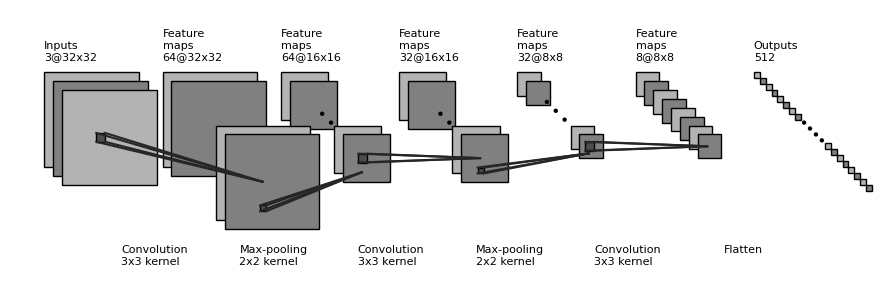
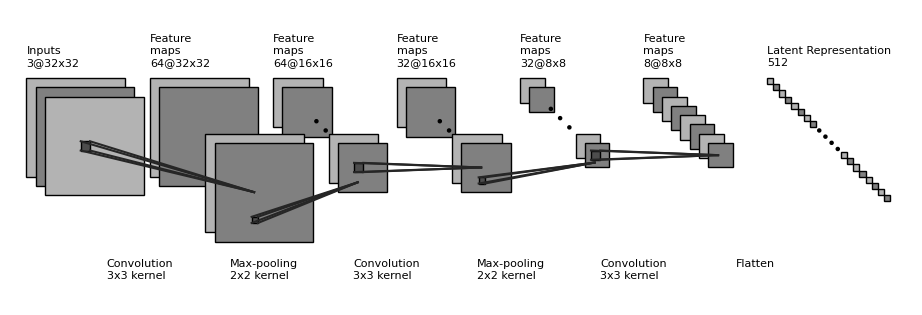
draw encoder

diff --git a/inactive notebooks/draw_convnet_fmnist_ae_encoder.py b/inactive notebooks/draw_convnet_fmnist_ae_encoder.py
@@ -155,9 +155,9 @@ if __name__ == '__main__':
 
     ############################
     # conv layers
-    size_list = [(32, 32), (32, 32), (16, 16), (16, 16), (8, 8), (8, 8)] # change here
-    num_list = [3, 64, 64, 32, 32, 8] # change here
-    x_diff_list = [0, layer_width, layer_width, layer_width, layer_width, layer_width] # change here
+    size_list = [(28, 28), (28, 28), (14, 14), (14, 14), (7, 7), (7, 7), (7, 7)] # change here
+    num_list = [1, 32, 32, 16, 16, 8, 4] # change here
+    x_diff_list = [0, layer_width, layer_width, layer_width, layer_width, layer_width, layer_width] # change here
     text_list = ['Inputs'] + ['Feature\nmaps'] * (len(size_list) - 1)
     loc_diff_list = [[3, -3]] * len(size_list)
 
@@ -181,11 +181,11 @@ if __name__ == '__main__':
 
     ############################
     # in between layers
-    start_ratio_list = [[0.4, 0.5], [0.4, 0.8], [0.4, 0.5], [0.4, 0.8], [0.4, 0.5]] # change here
-    end_ratio_list = [[0.4, 0.5], [0.4, 0.8], [0.4, 0.5], [0.4, 0.8], [0.4, 0.5]] # change here 
-    patch_size_list = [(3, 3), (2, 2), (3, 3), (2, 2), (3, 3)] # change here 
+    start_ratio_list = [[0.4, 0.5], [0.4, 0.8], [0.4, 0.5], [0.4, 0.8], [0.4, 0.5], [0.4, 0.8]] # change here
+    end_ratio_list = [[0.4, 0.5], [0.4, 0.8], [0.4, 0.5], [0.4, 0.8], [0.4, 0.5], [0.4, 0.8]] # change here 
+    patch_size_list = [(3, 3), (2, 2), (3, 3), (2, 2), (3, 3), (3, 3)] # change here 
     ind_bgn_list = range(len(patch_size_list))
-    text_list = ['Convolution', 'Max-pooling', 'Convolution', 'Max-pooling', 'Convolution'] # change here 
+    text_list = ['Convolution', 'Max-pooling', 'Convolution', 'Max-pooling', 'Convolution', 'Convolution'] # change here 
 
     for ind in range(len(patch_size_list)):
         add_mapping(
@@ -200,7 +200,7 @@ if __name__ == '__main__':
     ############################
     # fully connected layers
     size_list = [(fc_unit_size, fc_unit_size)] * 1  # change here 
-    num_list = [512]  # change here 
+    num_list = [196]  # change here 
     num_show_list = list(map(min, num_list, [NumFcMax] * len(num_list)))
     x_diff_list = [sum(x_diff_list) + layer_width, layer_width, layer_width]
     top_left_list = np.c_[np.cumsum(x_diff_list), np.zeros(len(x_diff_list))]
